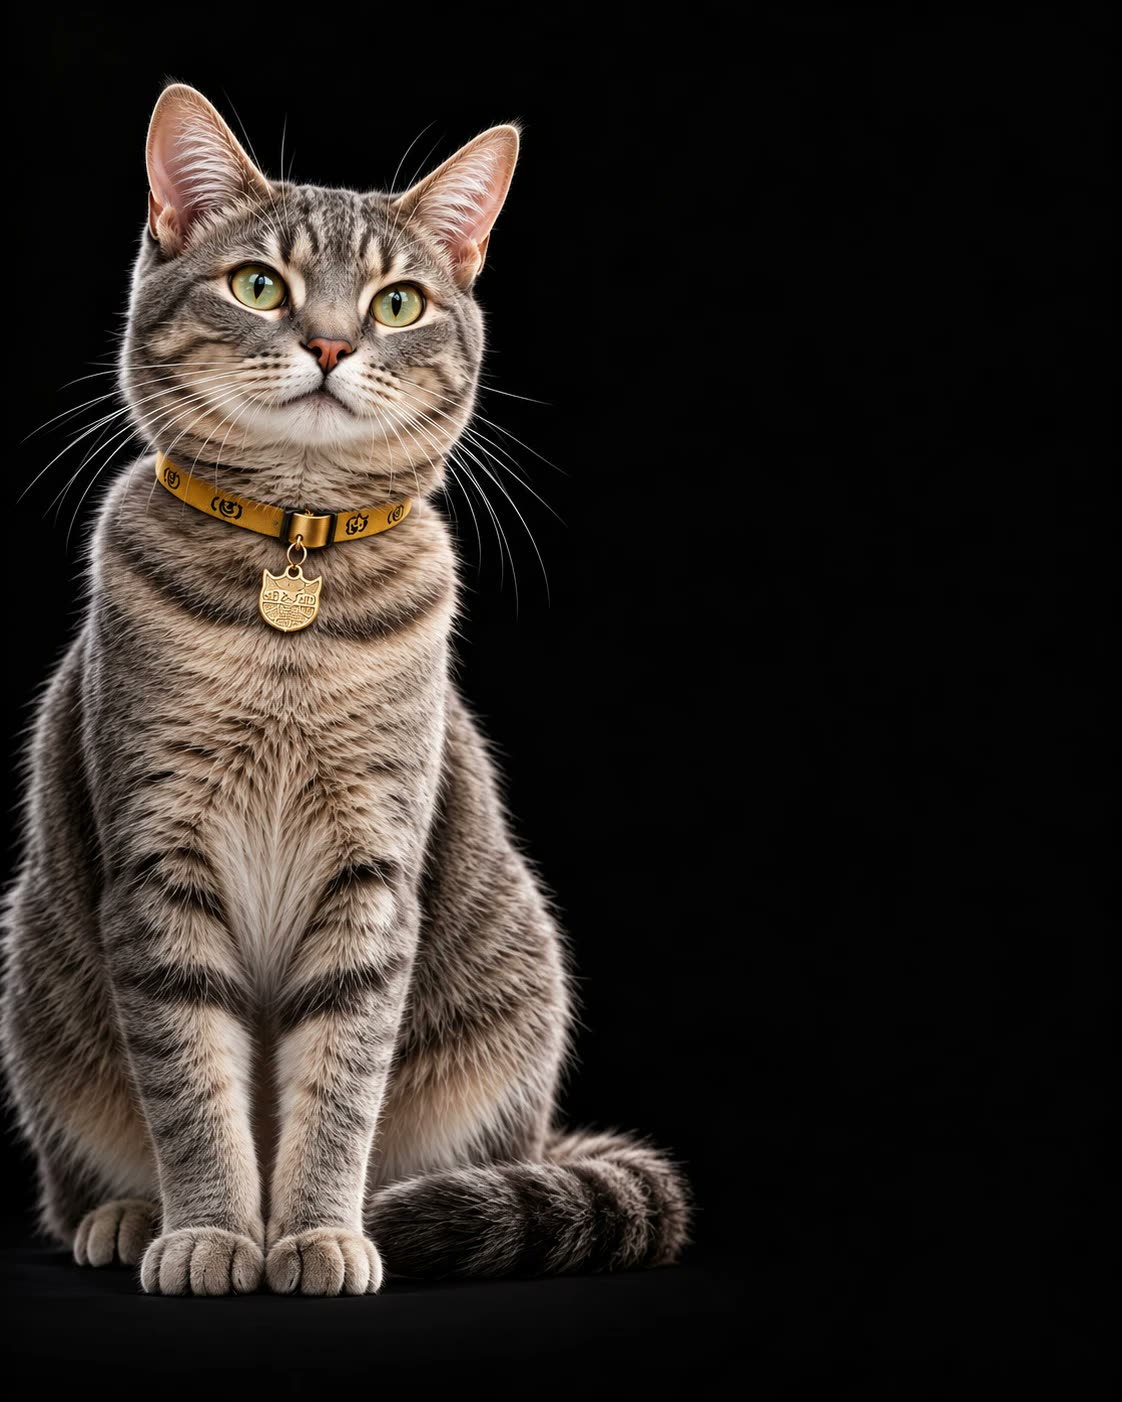
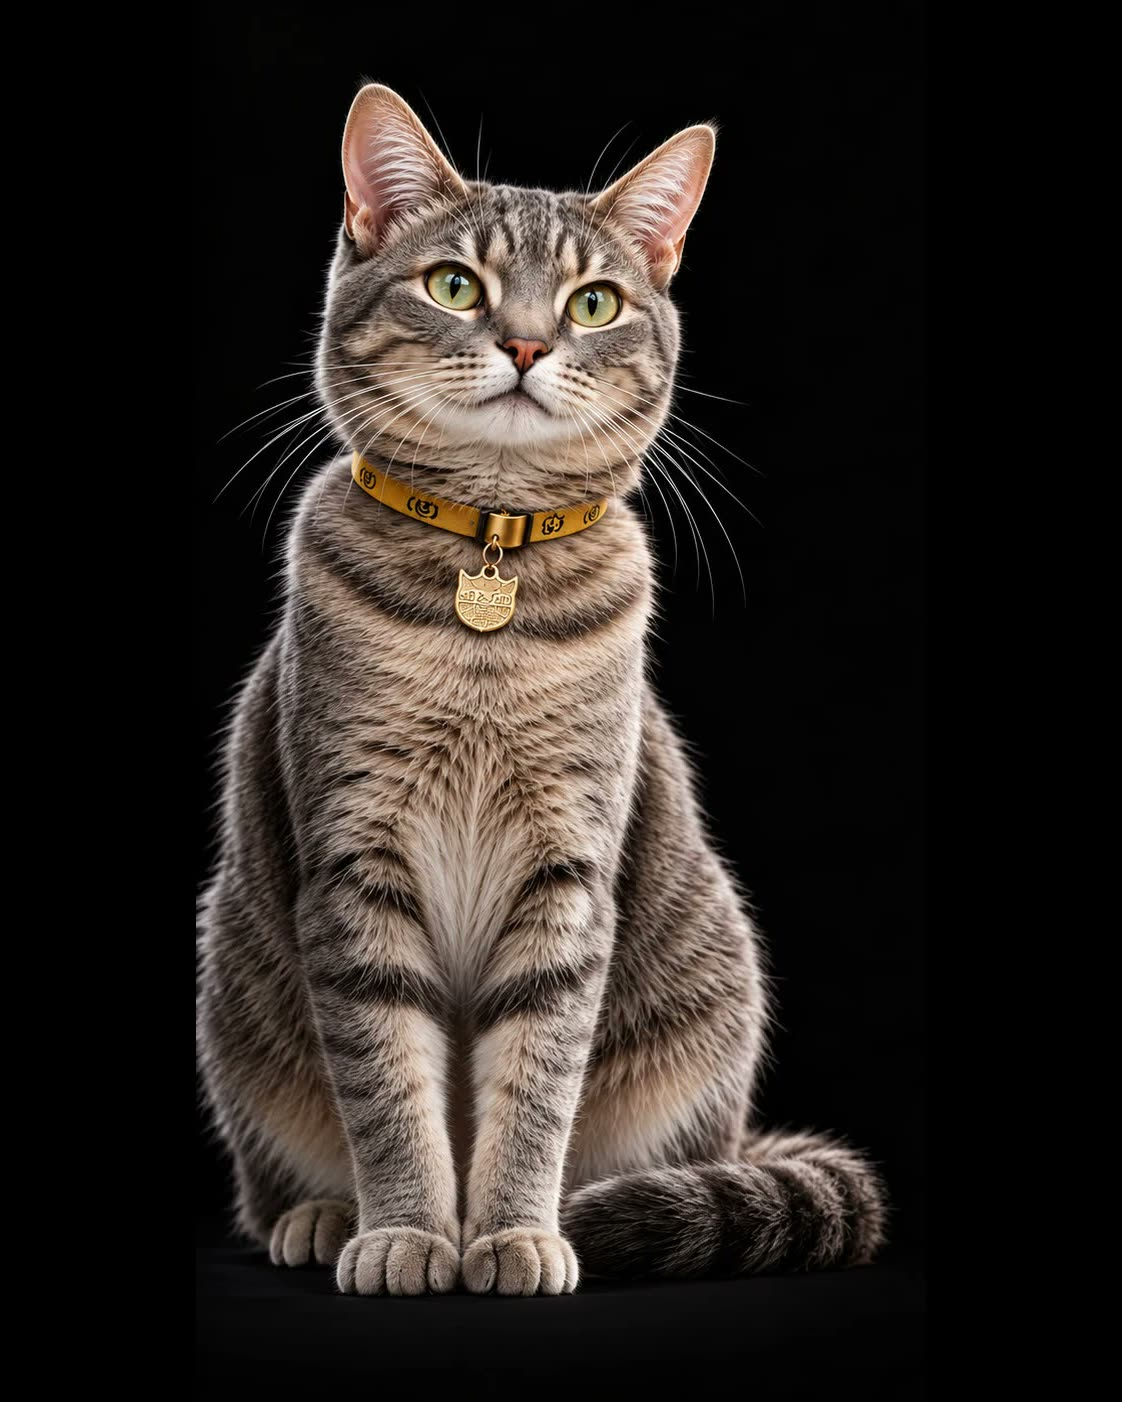
Centraliza gato na secao experiencia e galeria sem cortar

diff --git a/hotel-mulher-gato-v3sn/index.html b/hotel-mulher-gato-v3sn/index.html
@@ -179,7 +179,7 @@ h2,h3{font-weight:500}
 @media(max-width:700px){body{font-size:20px}}
 
 /* Texto maior + vídeo evidente */
-.media img{height:auto}.split>*{min-width:0}
+.media img{height:auto;object-position:center}.gallery img{height:100%;object-position:center}.split>*{min-width:0}
 @media(max-width:700px){.hero picture{top:64px;height:56svh}.hero img.cat{object-position:50% 0}}
 body{font-size:clamp(20px,1.8vw,22px)}
 @media(max-width:700px){body{font-size:21px}h2{font-size:2.45rem}}
@@ -285,7 +285,7 @@ footer.site{font-size:1.1rem}
       <div class="gallery" style="margin-top:34px">
         <figure><img src="img/galeria-coleira.jpg" alt="Detalhe da coleira dourada com medalha do Hotel Mulher Gato" loading="lazy" width="1448" height="1086"><figcaption>Elegância</figcaption></figure>
         <figure><img src="img/galeria-descanso.jpg" alt="Gato cinza descansando sobre manta preta" loading="lazy" width="1448" height="1086"><figcaption>Postura</figcaption></figure>
-        <figure><img src="img/hero-mobile.jpg" alt="Gato cinza olhando para o alto" loading="lazy" width="1122" height="1402" style="object-position:50% 25%"><figcaption>Presença</figcaption></figure>
+        <figure><img src="img/galeria-presenca.jpg" alt="Gato cinza olhando para o alto" loading="lazy" width="1000" height="750"><figcaption>Presença</figcaption></figure>
       </div>
     </div>
   </section>
